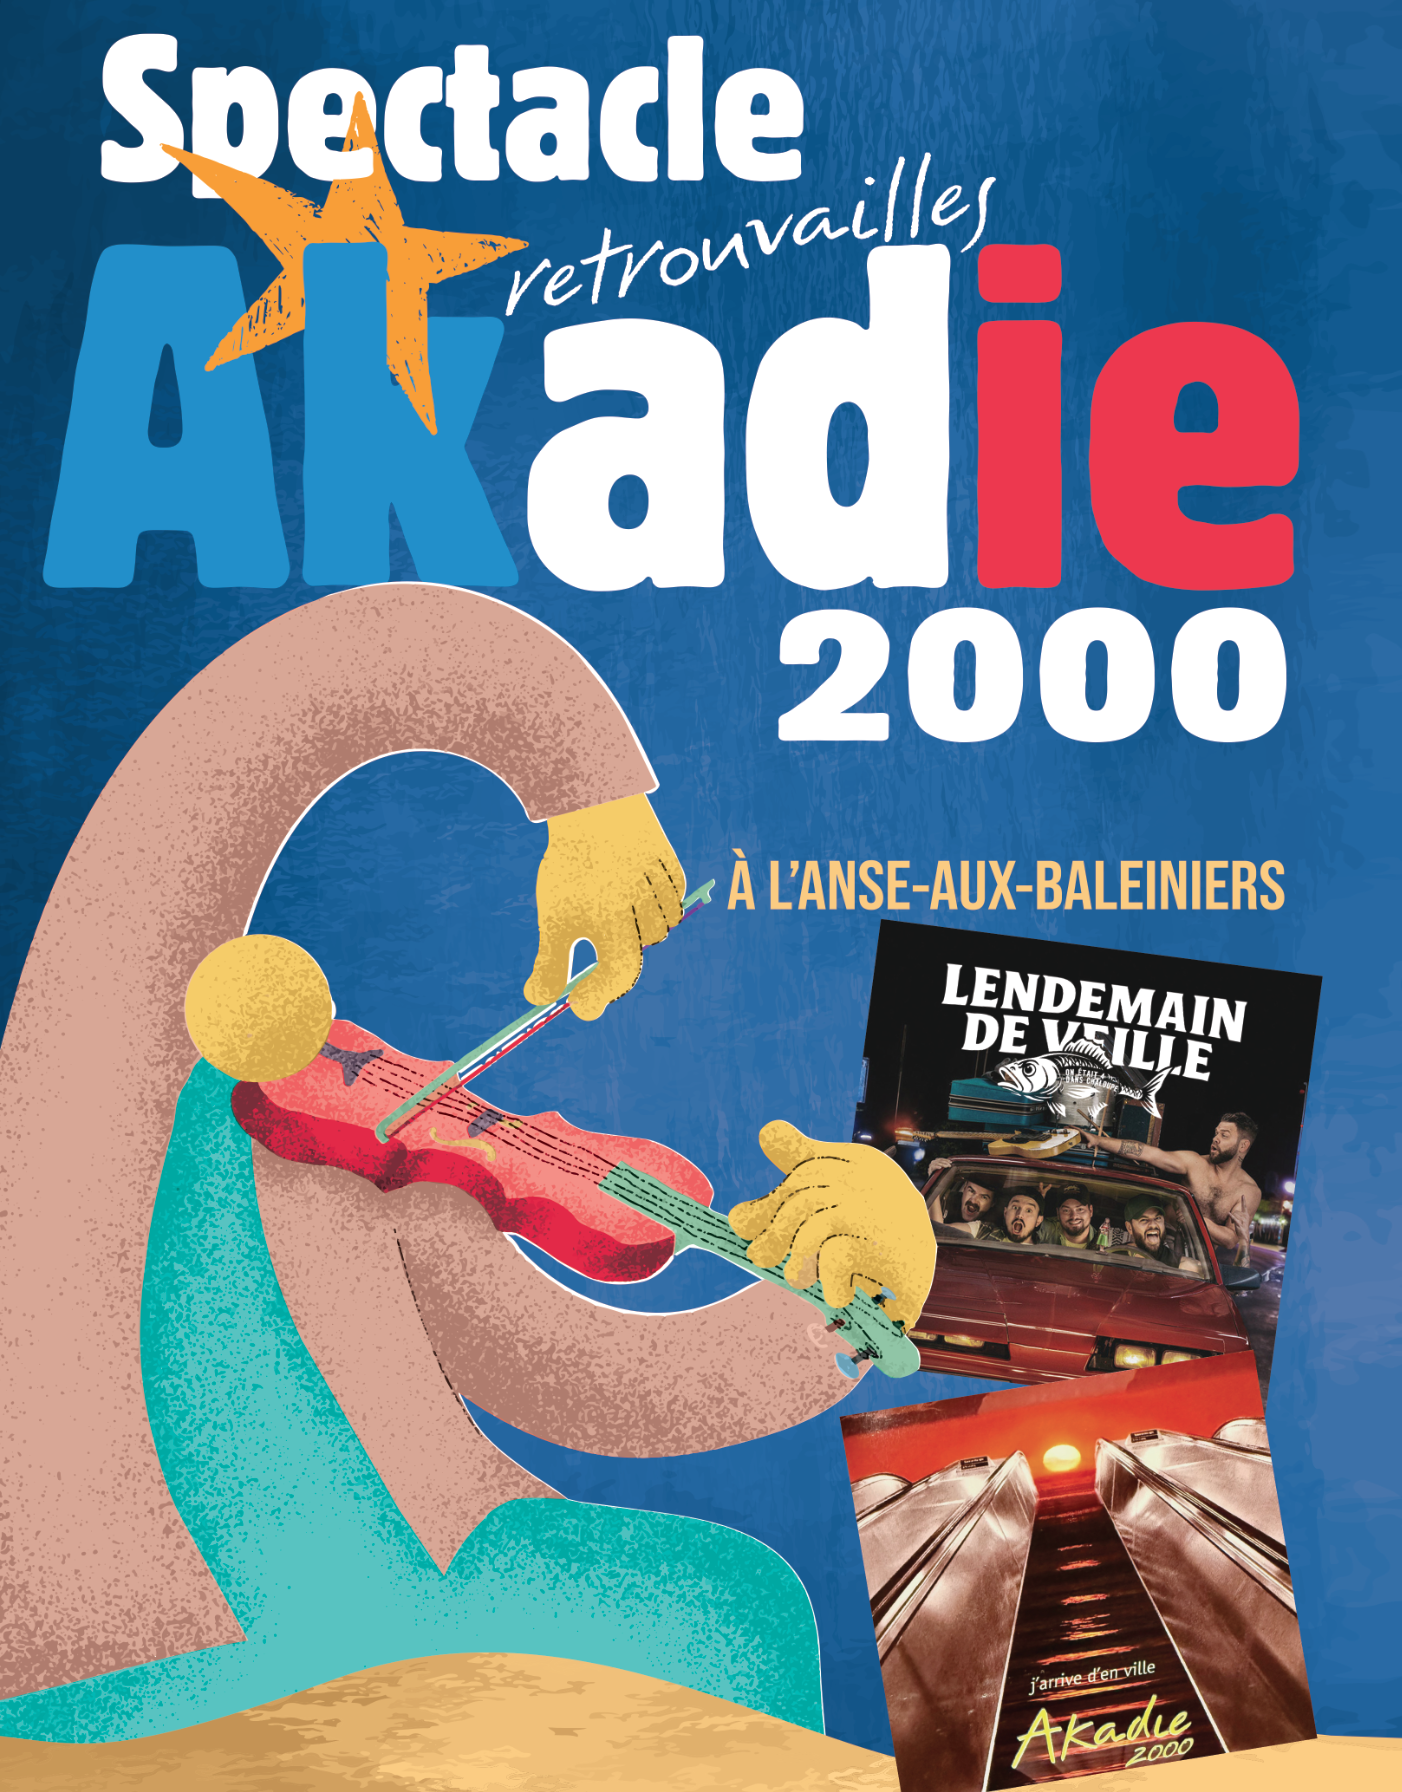
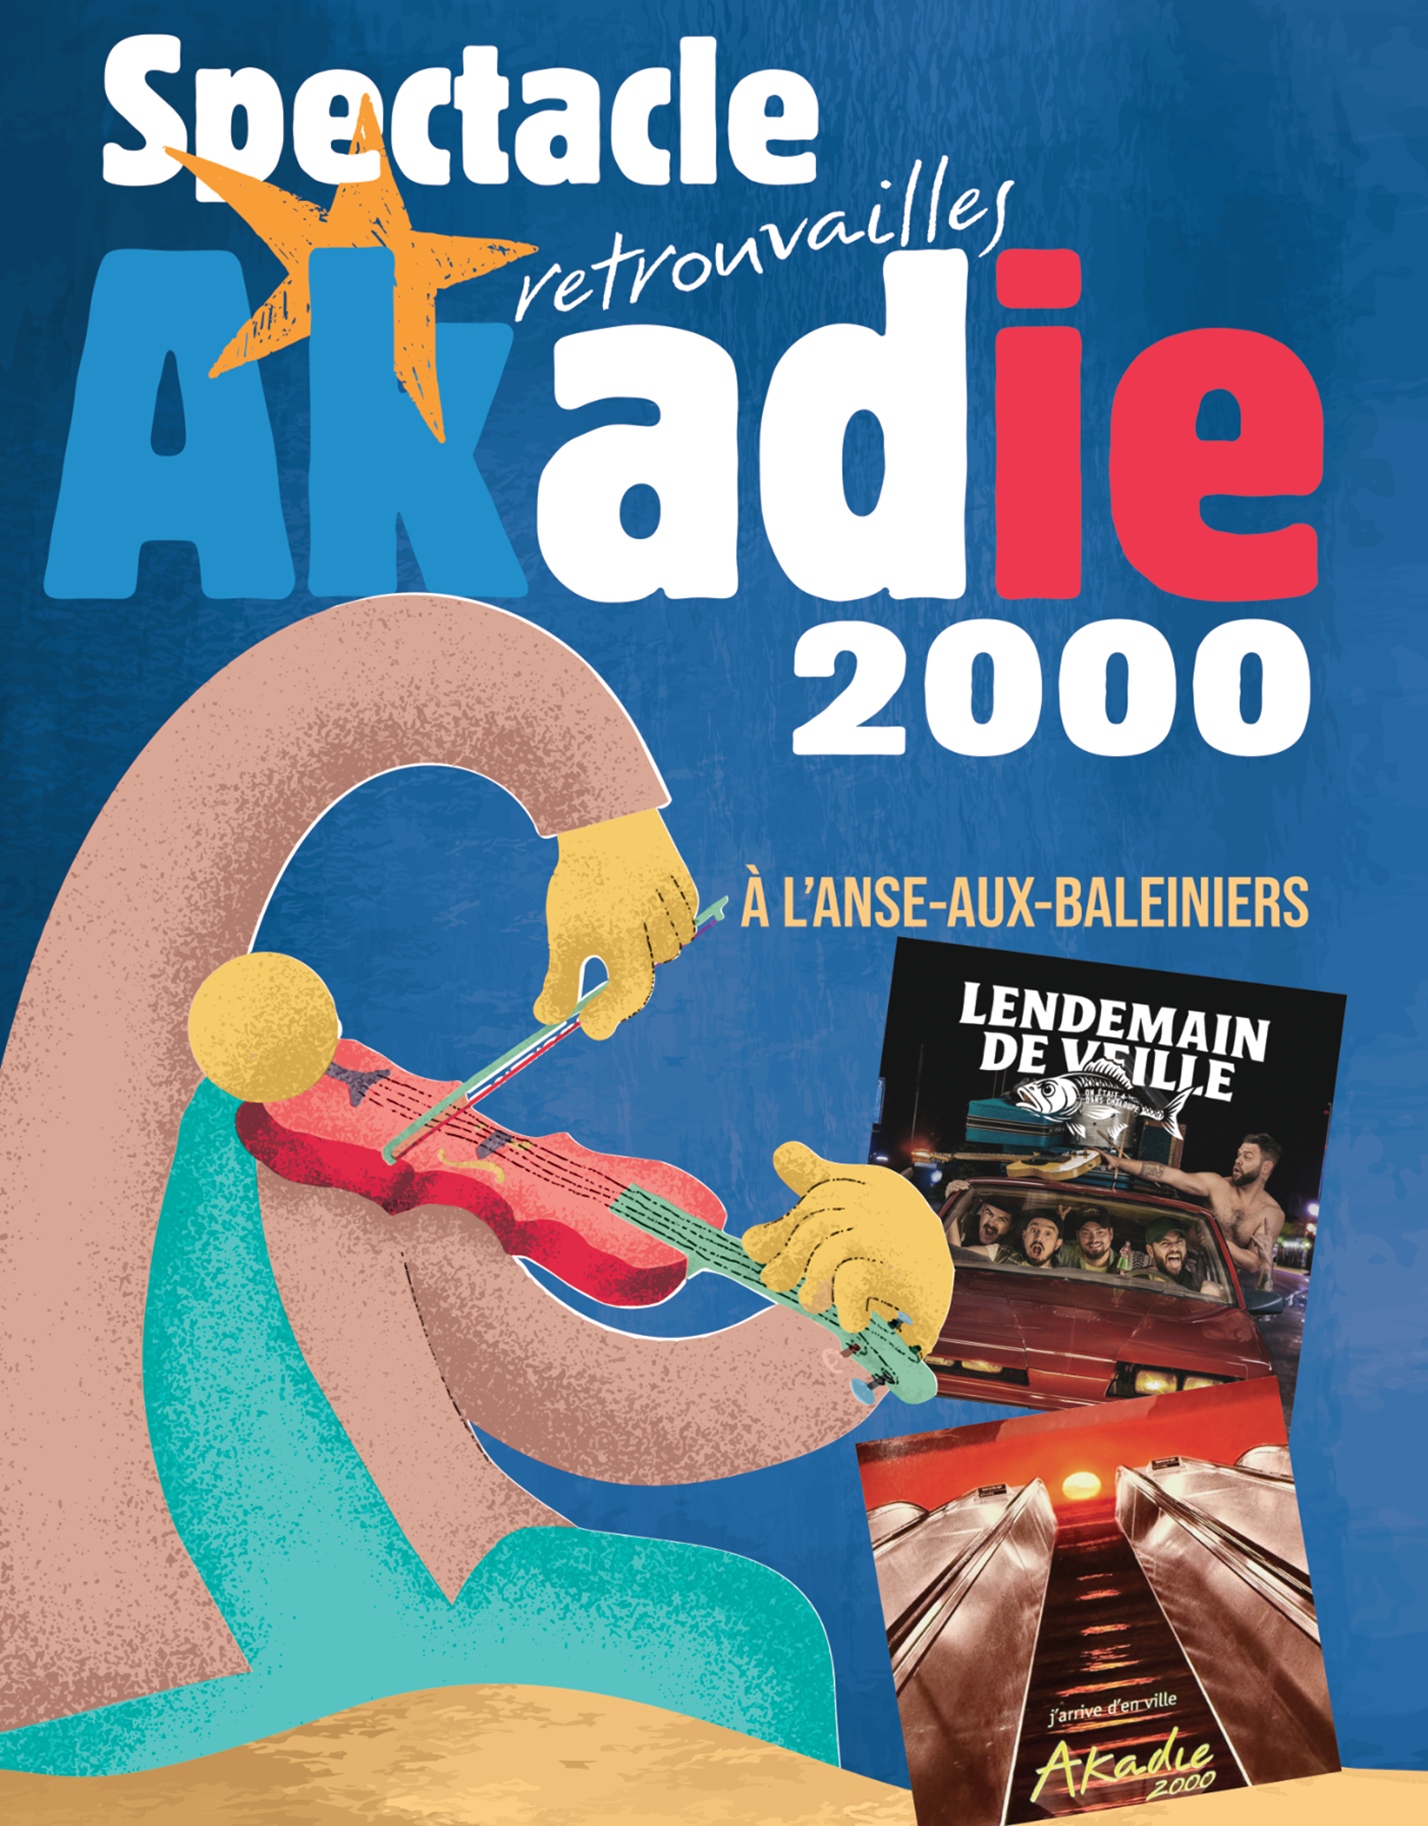
Ajusteents des photos d'événements et changement de la bannière des événements.

Changed region(s): [[0.7668, 0.5625, 0.7974, 0.5938], [0.7361, 0.5938, 0.7668, 0.625]]

diff --git a/content/fr/evenements/programmation-2026.md b/content/fr/evenements/programmation-2026.md
@@ -7,7 +7,7 @@ layout: "programmation"
 showHeader: true
 ---
 
-{{< responsive-img src="img/programmation/Visuel - Aéroport.png" alt="Affiche de la programmation 2026 du Centre des Loisirs de Fatima" width=100% >}}
+{{< responsive-img src="img/programmation/Bannière des événements.png" alt="Bannière festive de l'Anse-Aux-Baleiniers" width=100% >}}
 
 {{< spacer 30 >}}
 
